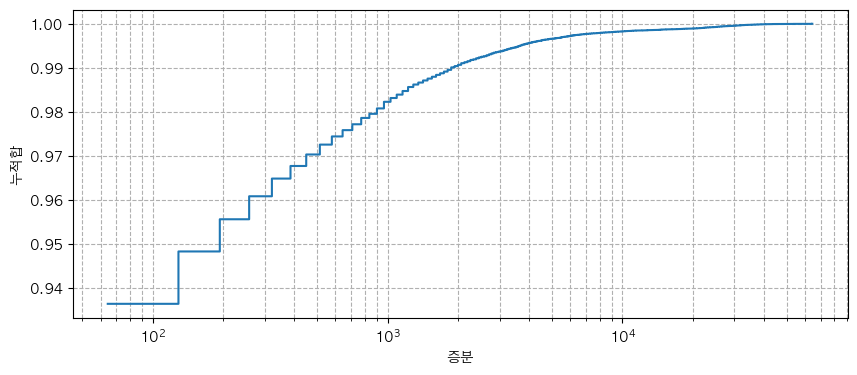
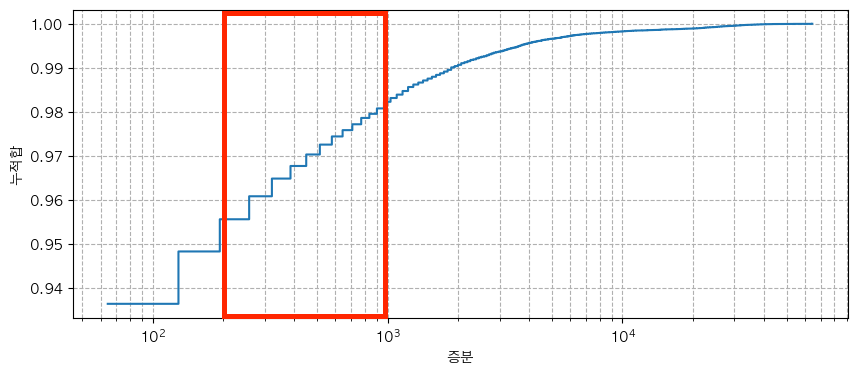
포폴 수정

Changed region(s): [[0.2427, 0.0293, 0.4551, 0.8507]]

diff --git a/src/legacy/project1.tsx b/src/legacy/project1.tsx
@@ -1047,7 +1047,9 @@ transformed = transformed.filter(
                   <span className="text-sm text-blue-600 font-medium mr-3">05</span>세션 구분하기
                 </h3>
                 <p className="text-gray-600 text-sm leading-relaxed">
-                  사용자 행동을 의미있는 세션 단위로 구분하여 분석을 진행했습니다.
+                  세션 구분 기준을 30분 미사용 시점으로 설정하다 보니, 실제로는 10시간이 하나의 세션으로 잡히는 문제가 발생했습니다.
+                  또한 실제 사용 행태를 생각해보면, 10분 이상 연속으로 사용하지 않는 경우가 대부분인 것으로 보입니다.
+                  따라서 아래의 그래프처럼 이벤트 로그간 시간delta를 조사해, 유의미하게 꺾이는 구간을 발견하여 세션 구분 값으로 사용했습니다.
                 </p>
               </div>
 
@@ -1063,7 +1065,7 @@ transformed = transformed.filter(
                     />
                   </div>
                   <p className="text-sm text-gray-500 text-center mt-2">
-                    세션 간격 분포와 누적 분포 - 사용자 행동 패턴 분석을 위한 세션 정의
+                    세션 간격 분포와 누적 분포 - 세션 정의
                   </p>
                 </div>
 
@@ -1071,8 +1073,7 @@ transformed = transformed.filter(
                   <div className="space-y-3">
                     <h4 className="font-bold text-blue-600">세션 정의 방법론</h4>
                     <p className="text-gray-700 leading-relaxed text-sm">
-                      URLScheme 이벤트 간의 시간 간격을 분석하여 의미있는 세션을 구분했습니다.
-                      10분(600초) 기준으로 세션을 나누어 자연스러운 사용자 행동 단위를 정의했습니다.
+                      10분 이상 미사용 시 새로운 세션으로 구분하고, 최대 20분까지만 이어지도록 하여 자연스러운 사용자 행동 단위로 정의했습니다.
                     </p>
                   </div>
 
@@ -1084,7 +1085,7 @@ transformed = transformed.filter(
     event_time,
     CASE
       WHEN LAG(event_time) OVER (ORDER BY event_time) IS NULL THEN 1
-      -- 10분(600초) 기준으로 변경 - 그래프에서 자연스러운 분리점
+      -- 10분 기준으로 변경
       WHEN EXTRACT(EPOCH FROM (event_time - LAG(event_time) OVER (ORDER BY event_time))) >= 600 THEN 1
       ELSE 0
     END AS new_session_flag
@@ -1103,7 +1104,7 @@ session_windows AS (
   SELECT
     session_id,
     session_start,
-    -- 세션 윈도우를 20분으로 설정 (10분 기준 + 여유분)
+    -- 세션 윈도우를 20분으로 설정
     session_start + INTERVAL '20 minutes' AS session_end
   FROM urlscheme_with_session_id
 ),
